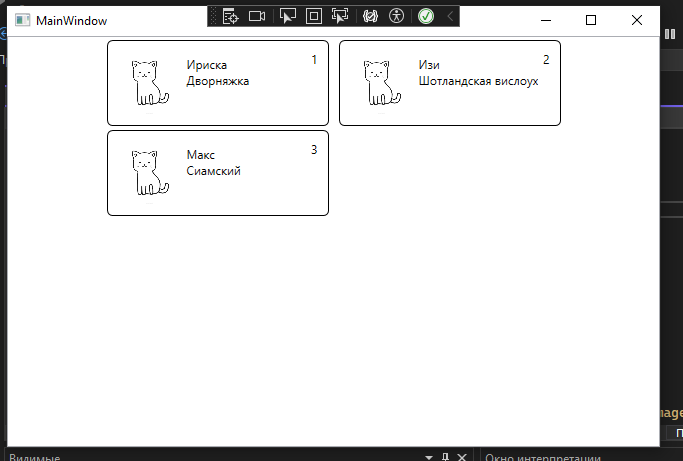
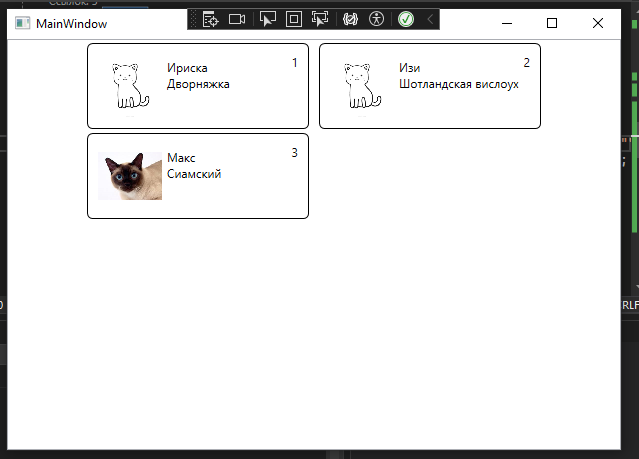
qq

Changed region(s): [[0.0, 0.0, 1.0, 1.0]]

diff --git a/articles/wpf_listbox.md b/articles/wpf_listbox.md
@@ -72,7 +72,23 @@
 
 Обратите внимание, в классе **Cat** нет поля *ImageBitmap*. Для получения картинки я использую вычисляемое свойство *ImageBitmap* - в геттере проверяю есть ли такая картинка, т.к. наличие названия в модели не означает наличие файла на диске. Если файла нет, то возвращается `null` и рисуется картинка по-умолчанию, которую надо зашить в ресурсы приложения.
 
-Изображение по-умолчанию задается в ресурсах окна (первый элемент окна)
+>В реальных проектах, конечно, изображения получают с сервера, но на демо-экзамене на реализацию этого функционала времени нет, поэтому картинки кладутся в каталог с проектом (не в ресурсы, а в каталог с исполняемым файлом). Нам нужно найти картинки для нашей предметной области и добавить в поле _photo_
+
+Добавьте в класс **Cat** вычисляемое свойство:  
+
+```cs
+public class Cat
+{
+    public Uri? ImageBitmap {
+        get {
+            var imageName = Environment.CurrentDirectory + "/img/" + (photo ?? "");
+            return System.IO.File.Exists(imageName) ? new Uri(imageName) : null;
+        }
+    }
+}
+```
+
+Изображение по-умолчанию задается в ресурсах окна
 
 ```xml
 <Window.Resources>
@@ -84,24 +100,6 @@
 
 тут, как раз, указывается путь к изображению в ресурсах (в моём случае в приложении создан каталог `Images`)
 
->В реальных проектах, конечно, изображения получают с сервера, но на демо-экзамене на реализацию этого функционала времени нет, поэтому картинки кладутся в каталог с проектом (не в ресурсы, а в каталог с исполняемым файлом). Нам нужно найти картинки для нашей предметной области и добавить в поле _photo_
-
-Добавьте в класс **Cat** вычисляемое свойство:  
-
-```cs
-public class Cat
-{
-    public Uri? ImageBitmap {
-        get {
-            var imageName = Environment.
-                CurrentDirectory + "img/" + (photo ?? "");
-            return System.IO.File.
-                Exists(imageName) ? 
-                new Uri(imageName) : null;
-        }
-    }
-}
-```
 
 **Во второй** колонке вывожу основную информацию о кошке: _кличку_ и _породу_.
 
